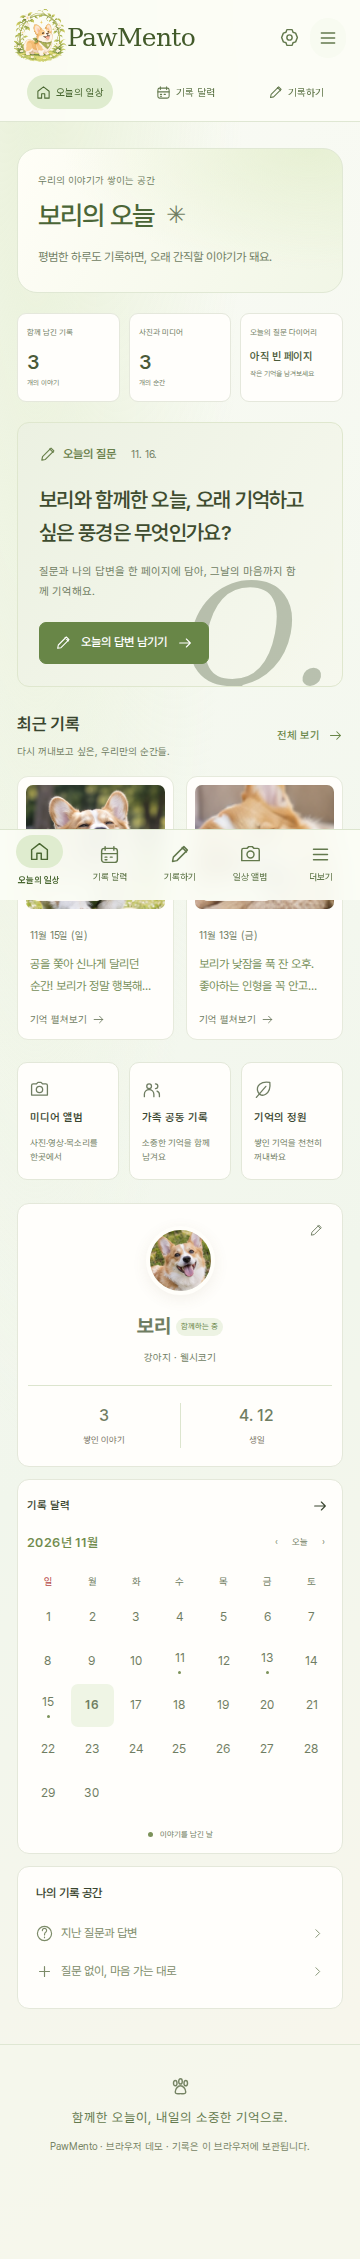
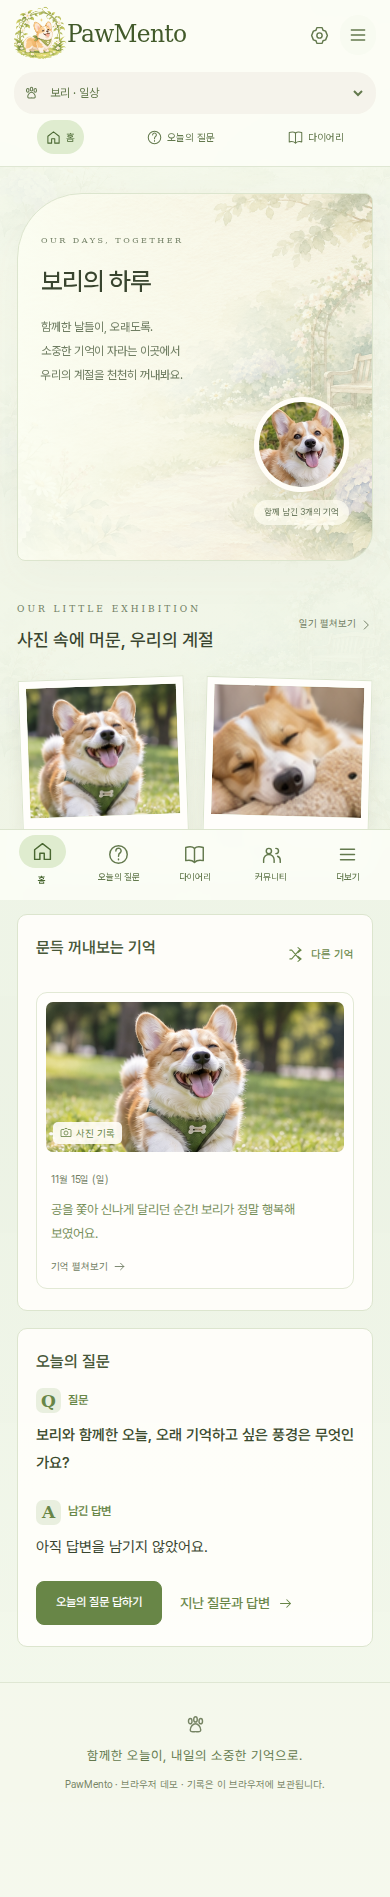
Docs: 최종 탐색 구조와 반려동물별 모드 화면 갱신

diff --git a/docs/Frontend/PawMento_Design_Tokens_Hexagonal.md b/docs/Frontend/PawMento_Design_Tokens_Hexagonal.md
@@ -4,14 +4,14 @@
 
 ## 일상과 정원
 
-두 공간은 정원의 개방적인 상단 레이아웃을 공유하되 색감·메뉴·본문 요소로 구분한다. 전환은 **설정 → 반려동물별 공간 설정**에서만 제공하며 기록은 유지한다.
+두 공간은 정원의 개방적인 상단 레이아웃과 사진 전시형 홈을 공유하며 색감으로 구분하고, 우체통은 정원에서만 제공한다. 전환은 **반려동물 관리 → 각 아이의 모드 변경**에서만 제공하며 기록은 유지한다. 반려동물 카드에서 대상 아이와 현재 모드를 확인하고, 해당 아이의 모드만 변경한다. 헤더의 반려동물 선택은 이미 저장된 각 아이의 모드를 불러오며 모드를 변경하지 않는다. 소유자만 모드 설정을 변경할 수 있다.
 
 | 공간 | PC | 모바일 | 표현 |
 |---|---|---|---|
-| 일상 · ACTIVE | 상단 로고·가로 탐색·오늘의 질문과 기록 | 전체 메뉴와 일상 전용 하단 탐색 | 연한 녹색, 올리브색 버튼, 간결한 기록 카드 |
-| 정원 · GARDEN | 독립된 상단 로고·가로 탐색·사진 전시·우체통 | 정원 전용 하단 탐색과 전체 메뉴 | 크림색 종이, 파스텔 보라, 수채화 정원 |
+| 일상 · ACTIVE | 공통 상단 탐색·사진 전시·오늘의 질문 | 공통 하단 탐색과 전체 메뉴 | 연녹색 수채화 바탕, 올리브색 버튼 |
+| 정원 · GARDEN | 일상과 동일 | 일상과 동일 | 크림색 수채화 바탕, 파스텔 보라 버튼 |
 
-`AppShell`이 전체 기능 탐색을 구성하고 `SpaceShell`이 두 공간의 공통 레이아웃과 공간별 메뉴를 담당한다. 공통 기능은 정원 전체 메뉴에서도 접근한다. 화면 표현은 어댑터·공유 UI 계층에서 관리하며 도메인·애플리케이션 계층에 넣지 않는다.
+`AppShell`이 전체 기능 탐색을 구성하고 `SpaceShell`이 공통 레이아웃과 메뉴를, `HomeScreen`이 공통 홈을 담당한다. 홈·오늘의 질문·다이어리·커뮤니티의 배치를 공유하며 정원에서는 우체통을 추가로 제공한다. 일상에서는 우체통 메뉴와 홈 안내를 숨긴다. 홈의 중복 바로가기 묶음은 두 모드 모두 제공하지 않는다. 화면 표현은 어댑터·공유 UI 계층에서 관리하며 도메인·애플리케이션 계층에 넣지 않는다.
 
 ## 의미별 색상
 
@@ -31,7 +31,7 @@
 | `--focus-ring` | `#385e46` | 상속 | 키보드 포커스 |
 | `--text-danger` | `#b54745` | 상속 | 오류·삭제 |
 
-정원 공용 카드에는 `--mode-card: #fffdf7e8`, `--mode-subtle: #eeedf4`, `--mode-border: #ded9dc`, `--mode-ink: #5c5966`, `--mode-muted: #7e7987`을 사용한다. 일상에서는 각 컴포넌트의 기본값을 따른다.
+공용 카드의 색상은 모드 토큰으로 관리한다. 정원에서는 `--mode-card: #fffdf7e8`, `--mode-subtle: #eeedf4`, `--mode-border: #ded9dc`, `--mode-ink: #5c5966`, `--mode-muted: #7e7987`을 사용한다. 일상도 같은 토큰을 사용하며 녹색 계열 값을 적용한다. `--space-wash`, `--space-tint`, `--hero-wash`, `--hero-tint`는 동일한 배경 이미지 위의 모드별 색상 층이다.
 
 ## 글꼴과 형태
 
@@ -39,7 +39,7 @@
 - 공통 버튼은 PC 높이 43px·글자 13px, 모바일 높이 42px·글자 12px이다. 버튼·입력 기본 모서리는 8px, 배지는 5px이다.
 - 카드·사진·엽서는 용도에 따라 모서리를 지정한다. 초기 시안의 일괄 22~36px 반경과 1200px 레이아웃 제한은 사용하지 않는다.
 - 두 공간의 본문 최대 폭은 1360px이다. 1050px 이하에서는 여백을 줄이고 767px 이하에서는 전용 하단 메뉴를 제공한다.
-- 공통 마스트헤드는 최대 1380px이다. 일상은 연녹색 아침빛 배경과 오늘 중심의 콘텐츠, 정원은 수채화 배경과 추억 전시를 사용한다. 화면을 휴대전화 프레임 안에 고정하지 않는다.
+- 공통 마스트헤드는 최대 1380px이다. 두 모드 모두 같은 수채화 이미지·콘텐츠·여백·반응형 배치를 사용하며 배경·글자·버튼 색만 변경한다. 화면을 휴대전화 프레임 안에 고정하지 않는다.
 - 키보드 포커스는 3px 외곽선으로 표시하고 동작 줄이기 설정을 존중한다. 오류·선택 상태는 색과 함께 문구·아이콘으로 전달한다.
 
 ## 로고와 이미지
@@ -50,7 +50,9 @@
 
 ## 질문 기록과 엽서
 
-질문형 일기는 날짜·질문 식별자·질문 원문·답변을 함께 저장한다. 홈·기록 상세·캘린더에서도 질문과 답변을 함께 표시한다.
+질문형 일기는 날짜·질문 식별자·질문 원문·답변을 함께 저장한다. 질문·답변은 오늘의 질문과 해당 상세 화면에 표시하며, 다이어리 목록·달력·미디어에서는 제외한다. 다이어리 탐색은 **일기 / 달력** 두 탭으로 구성하며 사진·영상·목소리는 해당 일기에서 조회한다.
+
+커뮤니티는 전체 목록 없이 카테고리별로 표시한다. 기본값과 잘못된 카테고리 주소는 반려 생활이며 검색·정렬·내 활동도 선택한 카테고리 안에서 동작한다. 추모 글은 해당 카테고리를 선택한 경우에만 표시한다. 글 상세 복귀와 작성 폼은 선택한 카테고리를 유지한다.
 
 엽서는 **기록 한 개를 무작위로 선택하고 그 상황과 반려동물 참조 사진을 바탕으로 새로운 장면을 만드는 경험**을 데모로 표현한다. 현재는 공원·바다·낮잠의 준비된 코기 수채화 이미지이며 실제 AI 생성이나 사용자 사진 분석은 하지 않는다.
 
@@ -58,4 +60,4 @@
 
 ## 화면 캡처
 
-[screenshots](screenshots)에는 현재 일상·정원 PC·모바일, 질문·답변 캘린더, 엽서 작성·결과 PC·모바일을 유지한다. 이전 대시보드 PC·모바일 캡처는 최신 화면으로 대체되어 삭제했다. 기능 청사진과 P1~P3 범위 문서는 유지한다.
+[screenshots](screenshots)에는 현재 일상·정원 PC·모바일, 오늘의 질문, 다이어리 달력, 카테고리 커뮤니티, 엽서 작성·결과 PC·모바일을 유지한다. 이전 대시보드 PC·모바일 캡처는 최신 화면으로 대체되어 삭제했다. 기능 청사진과 P1~P3 범위 문서는 유지한다.
